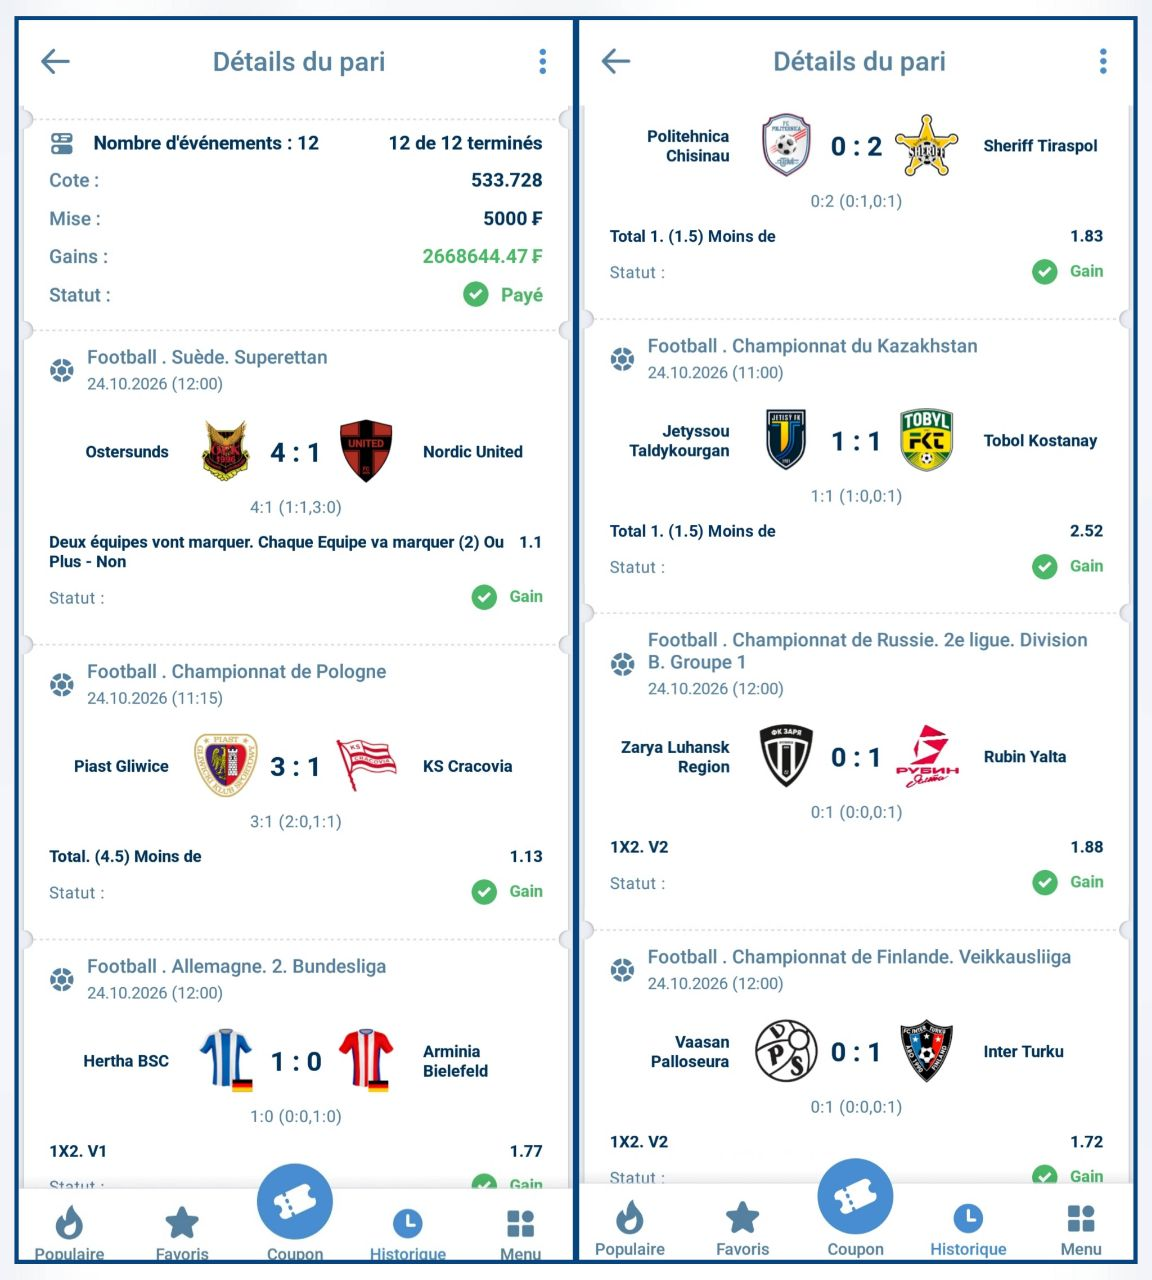
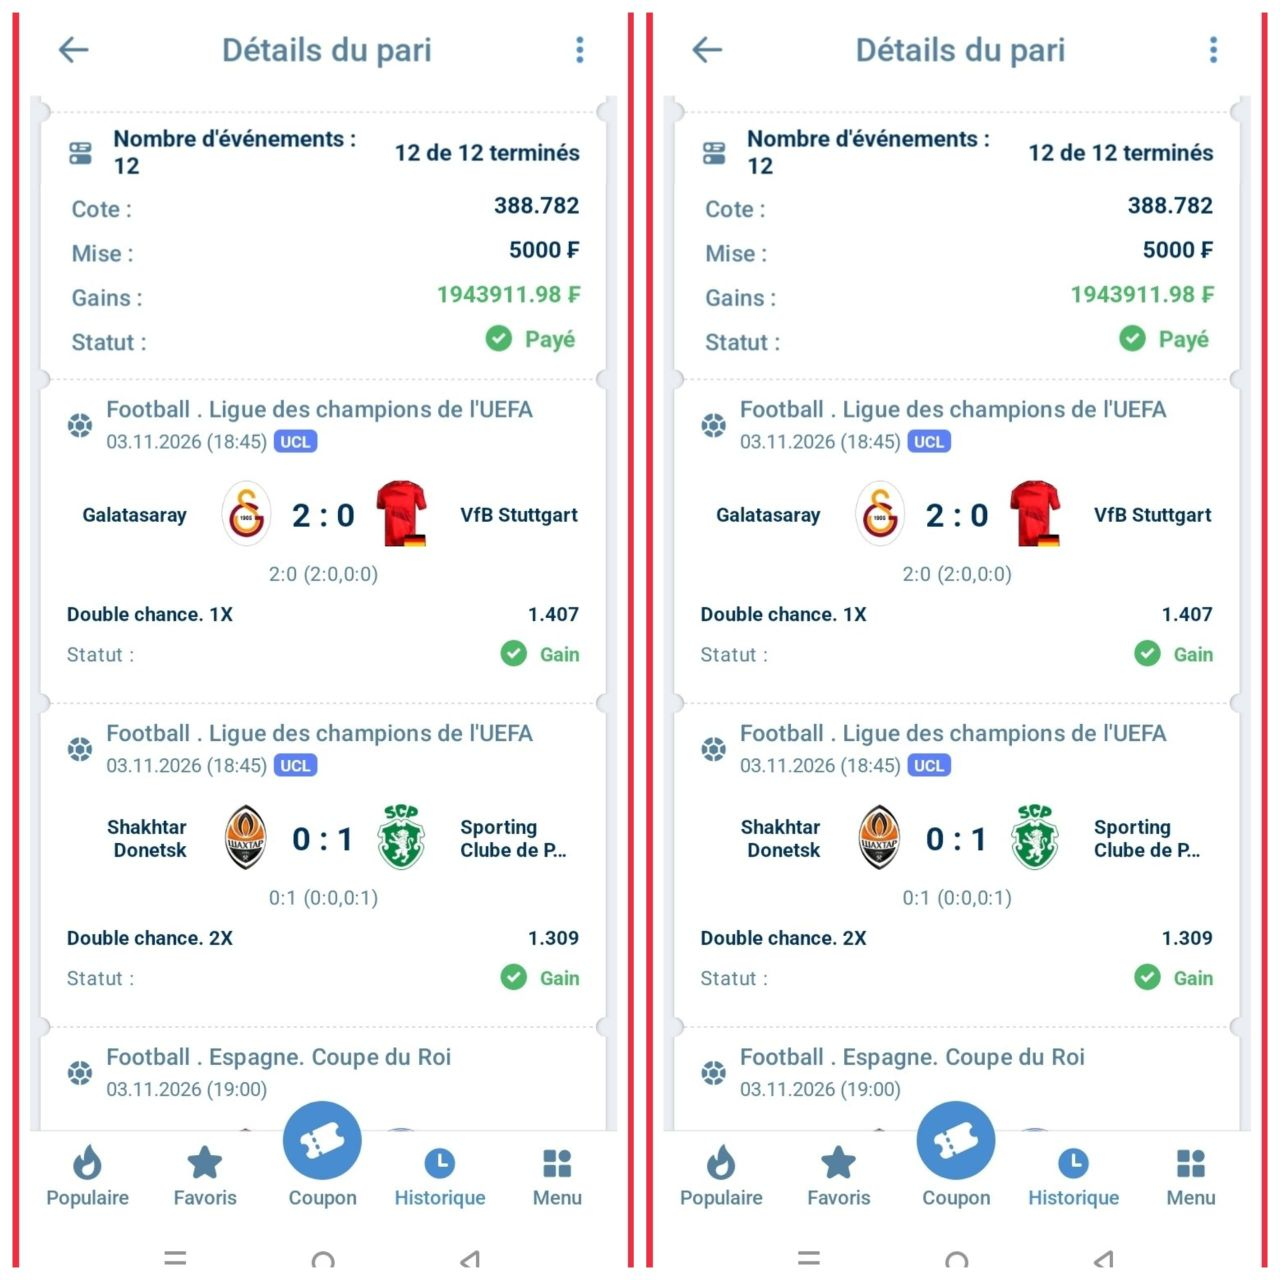
WINX commit

Changed region(s): [[0.0, 0.0, 1.0, 1.0], [0.2188, 0.6875, 0.2812, 0.7188]]

diff --git a/src/constants/data.ts b/src/constants/data.ts
@@ -2,29 +2,29 @@ import { CouponData, WinningCoupon } from "@/types/dataTypes";
 
 export const COUPON_DATA: CouponData = {
   id: 1,
-  odds: 1394.887,
-  stake: 20000,
-  gain: 27897752.46,
-  date: "03/11/2026",
+  odds: 986.077,
+  stake: 22000,
+  gain: 21693706.34,
+  date: "12/11/2026",
   image_url: "/assets/coupon_jour.webp",
-  whatsapp_link: "https://whatsapp.com/channel/0029VbBaBPKEwEk5K7WG1y0r",
+  whatsapp_link: "https://whatsapp.com/channel/0029VbE2AXy30LKFWDFz7L0V",
 };
 
 export const WONNING_COUPONS: WinningCoupon[] = [
   {
     id: 0,
-    odds: 533.728,
-    stake: 20000,
-    gain: 2668644.47,
-    date: "24/10/2026",
+    odds: 388.782,
+    stake: 5000,
+    gain: 1943911.98,
+    date: "03/11/2026",
     image_url: "/assets/won_0.png",
   },
   {
     id: 1,
-    odds: 691.074,
+    odds: 552.421,
     stake: 5000,
-    gain: 3455372.13,
-    date: "22/10/2026",
+    gain: 2762107.1,
+    date: "01/11/2026",
     image_url: "/assets/won_1.png",
   },
   {

diff --git a/src/components/CouponPage/Hero.tsx b/src/components/CouponPage/Hero.tsx
@@ -25,7 +25,7 @@ export default function Hero() {
     <section id="heroSection" className="hero">
       <div className="mb-3!">
         <Image
-          src="/mhrt.jpg"
+          src="/logo_pk.png"
           alt="Logo"
           width={150}
           height={150}
